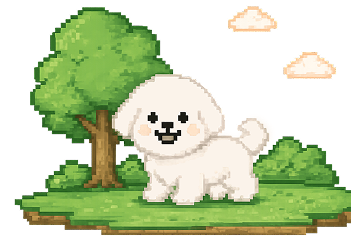
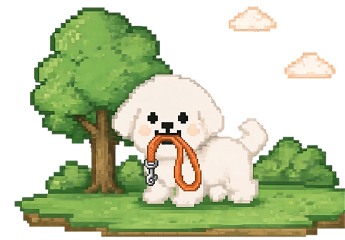
아이템 3종 추가·가격 책정, 배경 이음매 제거, 흰색 털, 산책 일러스트 교체
아이템
- 밀짚모자(300)·핑크리본(150)·동글안경(300) 추가. 초록 스카프는 새 디자인으로
  그림 교체. 그림이 없는 선글라스·후드티·천사날개·장난감류는 넣지 않았다 —
  회색 "준비중" 칸으로 채우면 비어 보이는 것보다 나빠 보인다.
- 전 아이템 가격 책정(기본 500 → 개별): 액자150 화분250 우드테이블500
  스탠드조명700 / 리본150 밀짚모자300 동글안경300 하트안경400 스카프600 왕관1200.
- 새 착용 아이템의 앵커·크기를 dog_with_wearables 에 추가했다. 없으면 강아지
  한가운데에 찍힌다. 크기는 그림의 알파 영역 가로:세로 비를 따랐다.
- 모자·리본은 머리 슬롯이라 kHeadSlotItems 에 넣어 하나만 쓰게 했다.

배경 이음매
- 같은 그림을 이어 붙이면 오른쪽 끝과 왼쪽 끝이 안 맞아 세로 경계선이 보였다.
  한 칸 걸러 좌우로 뒤집으면 맞닿는 가장자리가 같은 픽셀이라 선이 사라진다.
  대신 한 바퀴가 두 배가 되므로 주기와 타일 수를 그에 맞춰 늘렸다(칸당 속도는
  그대로). 8.15초 게임과 산책 화면 양쪽에 적용.

그 외
- 털색에 순백(0xFFFFFFFF) 추가. 곱셈 합성이라 이 값만 원본 그림을 그대로
  남긴다(기존 '화이트'는 5%쯤 어두운 아이보리).
- 산책 배너 일러스트를 목줄 문 강아지 그림으로 교체.

diff --git a/lib/features/games/presentation/widgets/looping_scenery.dart b/lib/features/games/presentation/widgets/looping_scenery.dart
@@ -2,7 +2,12 @@ import 'package:flutter/material.dart';
 
 /// 여러 배경을 가로로 이어 붙여 흘려보내는 스크롤 배경(끝나면 처음으로 이음).
 ///
-/// 8.15초 게임에서 배경 16장을 순서대로 이어 달리는 느낌을 준다.
+/// 8.15초 게임에서 달리는 느낌을 준다.
+///
+/// **한 칸 걸러 좌우로 뒤집어 붙인다(짝수=원본, 홀수=미러).** 같은 그림을
+/// 그냥 이어 붙이면 오른쪽 끝과 왼쪽 끝이 안 맞아 이음매에 세로 경계선이
+/// 보인다. 뒤집으면 맞닿는 두 가장자리가 같은 픽셀이라 선이 사라진다.
+/// 그래서 한 바퀴 길이가 그림 장수가 아니라 [_periodTiles] 칸이 된다.
 class LoopingScenery extends StatefulWidget {
   const LoopingScenery({
     super.key,
@@ -29,6 +34,15 @@ class _LoopingSceneryState extends State<LoopingScenery>
   // 그림 한 장이 지나가는 기준 시간(배속 1.0).
   static const _perTile = Duration(seconds: 7);
 
+  /// 한 바퀴에 들어가는 칸 수.
+  ///
+  /// 칸마다 원본·미러가 번갈아 나오므로, 장수가 홀수면 두 바퀴를 돌아야
+  /// 원래 배치로 돌아온다(예: 1장 → 원본·미러 2칸이 한 바퀴).
+  int get _periodTiles {
+    final n = widget.images.length;
+    return n.isEven ? n : n * 2;
+  }
+
   late final AnimationController _c = AnimationController(vsync: this);
 
   @override
@@ -48,8 +62,9 @@ class _LoopingSceneryState extends State<LoopingScenery>
       _c.stop(); // 멈춘 위치(_c.value) 유지 → 다시 시작하면 그 배경에서 이어짐.
       return;
     }
-    // 전체 한 바퀴(모든 그림) 시간 = 장수 × 기준시간 ÷ 배속.
-    _c.duration = _perTile * (widget.images.length / widget.speed);
+    // 전체 한 바퀴 시간 = 한 바퀴 칸수 × 기준시간 ÷ 배속.
+    // (칸당 속도는 장수·미러 여부와 무관하게 일정하다.)
+    _c.duration = _perTile * (_periodTiles / widget.speed);
     // repeat()는 현재 위상(_c.value)에서 이어서 반복한다(처음으로 리셋 안 함).
     _c.repeat();
   }
@@ -70,34 +85,45 @@ class _LoopingSceneryState extends State<LoopingScenery>
           final h = box.maxHeight;
           final tileW = h * widget.aspect;
           if (tileW <= 0) return const SizedBox.shrink();
-          final loopW = imgs.length * tileW; // 한 바퀴 거리
+          final loopW = _periodTiles * tileW; // 한 바퀴 거리
           return AnimatedBuilder(
             animation: _c,
             builder: (context, child) => Transform.translate(
               offset: Offset(-_c.value * loopW, 0),
               child: child,
             ),
-            // 이미지들 + 이음매용으로 화면을 덮을 만큼 앞쪽 몇 장을 더 붙인다.
+            // 한 바퀴 + 이음매용으로 화면을 덮을 만큼 앞쪽 몇 칸을 더 붙인다.
             child: OverflowBox(
               maxWidth: double.infinity,
               alignment: Alignment.centerLeft,
               child: Row(
                 mainAxisSize: MainAxisSize.min,
                 children: [
-                  for (int i = 0; i < imgs.length + 3; i++)
-                    Image.asset(
-                      imgs[i % imgs.length],
-                      width: tileW,
-                      height: h,
-                      fit: BoxFit.fill,
-                      filterQuality: FilterQuality.none,
-                    ),
+                  for (int i = 0; i < _periodTiles + 3; i++)
+                    _tile(imgs[i % imgs.length], tileW, h, mirrored: i.isOdd),
                 ],
               ),
             ),
           );
         },
       ),
+    );
+  }
+
+  /// 한 칸. [mirrored]면 좌우로 뒤집어 이음매를 없앤다.
+  Widget _tile(String asset, double w, double h, {required bool mirrored}) {
+    final img = Image.asset(
+      asset,
+      width: w,
+      height: h,
+      fit: BoxFit.fill,
+      filterQuality: FilterQuality.none,
+    );
+    if (!mirrored) return img;
+    return Transform(
+      alignment: Alignment.center,
+      transform: Matrix4.identity()..scaleByDouble(-1.0, 1.0, 1.0, 1.0),
+      child: img,
     );
   }
 }

diff --git a/lib/features/home/domain/room_item.dart b/lib/features/home/domain/room_item.dart
@@ -26,22 +26,20 @@ class RoomItem {
   final int price; // 스토어 가격(P)
 }
 
-/// 아이템 카탈로그 (image 13 기준). 픽셀 에셋은 `assets/items/{id}.png`.
+/// 아이템 카탈로그. 픽셀 에셋은 `assets/items/{id}.png`.
+///
+/// **그림이 있는 것만 넣는다.** 선글라스·후드티·천사날개, 장난감(테니스공·로프
+/// 등)처럼 가격만 정해둔 아이템은 그림이 들어오면 그때 추가한다. 회색
+/// "준비중" 칸으로 미리 채우면 스토어가 비어 보이는 것보다 더 나빠 보인다.
 const List<RoomItem> kRoomItems = [
-  // 가구
+  // ── 인테리어 ──
   RoomItem(
-    id: 'wood_table',
-    label: '우드테이블',
+    id: 'frame',
+    label: '액자',
     category: ItemCategory.furniture,
-    icon: Icons.table_restaurant,
-    asset: 'assets/items/wood_table.png',
-  ),
-  RoomItem(
-    id: 'stand_lamp',
-    label: '스탠드 조명',
-    category: ItemCategory.furniture,
-    icon: Icons.light,
-    asset: 'assets/items/stand_lamp.png',
+    icon: Icons.photo,
+    asset: 'assets/items/frame.png',
+    price: 150,
   ),
   RoomItem(
     id: 'plant',
@@ -49,28 +47,32 @@ const List<RoomItem> kRoomItems = [
     category: ItemCategory.furniture,
     icon: Icons.local_florist,
     asset: 'assets/items/plant.png',
+    price: 250,
   ),
   RoomItem(
-    id: 'frame',
-    label: '액자',
+    id: 'wood_table',
+    label: '우드테이블',
     category: ItemCategory.furniture,
-    icon: Icons.photo,
-    asset: 'assets/items/frame.png',
-  ),
-  // 웨어러블
-  RoomItem(
-    id: 'heart_glasses',
-    label: '하트안경',
-    category: ItemCategory.wearable,
-    icon: Icons.favorite,
-    asset: 'assets/items/heart_glasses.png',
+    icon: Icons.table_restaurant,
+    asset: 'assets/items/wood_table.png',
+    price: 500,
   ),
   RoomItem(
-    id: 'crown',
-    label: '왕관모자',
+    id: 'stand_lamp',
+    label: '스탠드 조명',
+    category: ItemCategory.furniture,
+    icon: Icons.light,
+    asset: 'assets/items/stand_lamp.png',
+    price: 700,
+  ),
+  // ── 착용 아이템 (가격 낮은 순) ──
+  RoomItem(
+    id: 'pink_ribbon',
+    label: '핑크리본',
     category: ItemCategory.wearable,
-    icon: Icons.workspace_premium,
-    asset: 'assets/items/crown.png',
+    icon: Icons.bookmark,
+    asset: 'assets/items/pink_ribbon.png',
+    price: 150,
   ),
   RoomItem(
     id: 'sky_ribbon',
@@ -79,6 +81,31 @@ const List<RoomItem> kRoomItems = [
     icon: Icons.bookmark,
     enabled: false,
     asset: 'assets/items/sky_ribbon.png',
+    price: 150,
+  ),
+  RoomItem(
+    id: 'straw_hat',
+    label: '밀짚모자',
+    category: ItemCategory.wearable,
+    icon: Icons.beach_access,
+    asset: 'assets/items/straw_hat.png',
+    price: 300,
+  ),
+  RoomItem(
+    id: 'round_glasses',
+    label: '동글안경',
+    category: ItemCategory.wearable,
+    icon: Icons.circle_outlined,
+    asset: 'assets/items/round_glasses.png',
+    price: 300,
+  ),
+  RoomItem(
+    id: 'heart_glasses',
+    label: '하트안경',
+    category: ItemCategory.wearable,
+    icon: Icons.favorite,
+    asset: 'assets/items/heart_glasses.png',
+    price: 400,
   ),
   RoomItem(
     id: 'green_scarf',
@@ -86,9 +113,23 @@ const List<RoomItem> kRoomItems = [
     category: ItemCategory.wearable,
     icon: Icons.dry_cleaning,
     asset: 'assets/items/green_scarf.png',
+    price: 600,
+  ),
+  RoomItem(
+    id: 'crown',
+    label: '왕관모자',
+    category: ItemCategory.wearable,
+    icon: Icons.workspace_premium,
+    asset: 'assets/items/crown.png',
+    price: 1200,
   ),
 ];
 
 /// 머리에 쓰는 웨어러블 — 이 중 하나만 착용할 수 있다.
 /// 홈(실제 착용)과 스토어(입어보기)가 같은 규칙을 쓰도록 여기서 한 번만 정의한다.
-const Set<String> kHeadSlotItems = {'crown', 'sky_ribbon'};
+const Set<String> kHeadSlotItems = {
+  'crown',
+  'sky_ribbon',
+  'pink_ribbon',
+  'straw_hat',
+};

diff --git a/lib/features/walk/presentation/widgets/walk_scenery.dart b/lib/features/walk/presentation/widgets/walk_scenery.dart
@@ -2,6 +2,11 @@ import 'package:flutter/material.dart';
 
 /// 산책 중 배경. 같은 그림을 가로로 이어 붙여 흘려보내 "걷고 있음"을 표현한다.
 ///
+/// **한 칸 걸러 좌우로 뒤집는다(짝수=원본, 홀수=미러).** 같은 그림을 그냥
+/// 이어 붙이면 오른쪽 끝과 왼쪽 끝이 안 맞아 이음매에 세로 경계선이 보인다.
+/// 뒤집으면 맞닿는 두 가장자리가 같은 픽셀이라 선이 사라진다. 대신 한 바퀴가
+/// 한 칸이 아니라 **두 칸**이 된다.
+///
 /// 배경은 [WalkBackground]로 갈아끼운다. 지역마다 다른 그림을 쓰거나, 나중에
 /// AI 생성 이미지를 쓰게 되면 [WalkBackground.image]에 `NetworkImage`를 넣으면
 /// 되고 레이아웃은 그대로다.
@@ -94,7 +99,8 @@ class _WalkSceneryState extends State<WalkScenery>
       _c.stop();
       return;
     }
-    _c.duration = _baseDuration * (1 / widget.speed);
+    // 한 바퀴가 두 칸(원본+미러)이므로 주기도 두 배. 칸당 속도는 그대로다.
+    _c.duration = _baseDuration * (2 / widget.speed);
     // 진행 위상(_c.value)은 유지되므로 배속을 바꿔도 배경이 튀지 않는다.
     _c.repeat();
   }
@@ -114,14 +120,15 @@ class _WalkSceneryState extends State<WalkScenery>
           // 그림은 높이에 맞춰 세우고, 그만큼의 폭으로 가로로 이어 붙인다.
           final tileW = h * widget.background.aspect;
           if (tileW <= 0) return const SizedBox.shrink();
-          // 화면을 덮고 + 한 장이 더 있어야 스크롤이 끊기지 않는다(최소 3장).
-          final count = ((box.maxWidth / tileW).ceil() + 1).clamp(3, 8);
+          // 화면을 덮고 + 한 바퀴(두 칸)가 더 있어야 스크롤이 끊기지 않는다.
+          final count = ((box.maxWidth / tileW).ceil() + 2).clamp(4, 10);
 
           return AnimatedBuilder(
             animation: _c,
             builder: (context, child) => Transform.translate(
-              // 0 → -tileW 로 밀고 다시 0으로 돌아오므로 이음매가 안 보인다.
-              offset: Offset(-_c.value * tileW, 0),
+              // 0 → -(tileW*2) 로 밀고 다시 0으로 돌아온다. 두 칸이 한 바퀴라
+              // 되감아도 원본·미러 배치가 그대로 이어진다.
+              offset: Offset(-_c.value * tileW * 2, 0),
               child: child,
             ),
             // 이어붙인 타일이 화면보다 넓다. OverflowBox로 Row에 무한 폭을 줘야
@@ -133,20 +140,31 @@ class _WalkSceneryState extends State<WalkScenery>
                 mainAxisSize: MainAxisSize.min,
                 children: [
                   for (int i = 0; i < count; i++)
-                    Image(
-                      image: widget.background.image,
-                      width: tileW,
-                      height: h,
-                      // fill: 계산한 타일 폭에 정확히 맞춰야 장끼리 틈이 안 생긴다.
-                      fit: BoxFit.fill,
-                      filterQuality: FilterQuality.none, // 픽셀 선명도 유지
-                    ),
+                    _tile(tileW, h, mirrored: i.isOdd),
                 ],
               ),
             ),
           );
         },
       ),
+    );
+  }
+
+  /// 한 칸. [mirrored]면 좌우로 뒤집어 이음매를 없앤다.
+  Widget _tile(double w, double h, {required bool mirrored}) {
+    final img = Image(
+      image: widget.background.image,
+      width: w,
+      height: h,
+      // fill: 계산한 타일 폭에 정확히 맞춰야 장끼리 틈이 안 생긴다.
+      fit: BoxFit.fill,
+      filterQuality: FilterQuality.none, // 픽셀 선명도 유지
+    );
+    if (!mirrored) return img;
+    return Transform(
+      alignment: Alignment.center,
+      transform: Matrix4.identity()..scaleByDouble(-1.0, 1.0, 1.0, 1.0),
+      child: img,
     );
   }
 }

diff --git a/lib/features/pet/presentation/widgets/dog_with_wearables.dart b/lib/features/pet/presentation/widgets/dog_with_wearables.dart
@@ -136,8 +136,11 @@ class _DogWithWearablesState extends State<DogWithWearables>
   // 박스 안에서 조금 작아지고 아래로 내려갔다. 그만큼 앵커도 같이 옮겼다.
   static const Map<String, Offset> _wearAnchor = {
     'crown': Offset(15, -47), // 머리 위 중앙
+    'straw_hat': Offset(15, -44), // 챙이 넓어 왕관보다 살짝 아래
     'heart_glasses': Offset(15, -15), // 눈 위치
+    'round_glasses': Offset(15, -15), // 하트안경과 같은 눈 위치
     'sky_ribbon': Offset(25, -41), // 머리 위, 왕관보다 약간 오른쪽
+    'pink_ribbon': Offset(25, -41), // 하늘색 리본과 같은 자리
     // 턱 바로 아래 목. 가슴까지 내리면 스카프가 아니라 앞치마처럼 보인다.
     'green_scarf': Offset(17, 17),
   };
@@ -146,17 +149,23 @@ class _DogWithWearablesState extends State<DogWithWearables>
   // 값이 안 맞으면 이 숫자만 조정하면 된다.
   static const Map<String, Offset> _wearAnchorWalk = {
     'crown': Offset(13, -50),
+    'straw_hat': Offset(13, -47),
     'heart_glasses': Offset(14, -22), // 눈에 딱 맞게
+    'round_glasses': Offset(14, -22),
     'sky_ribbon': Offset(25, -44),
+    'pink_ribbon': Offset(25, -44),
     'green_scarf': Offset(10, 14),
   };
 
-  // 원본 비율 유지한 표시 크기.
+  // 원본 비율 유지한 표시 크기(그림의 알파 영역 가로:세로 비를 따른다).
   static const Map<String, Size> _wearSize = {
     'crown': Size(50, 46),
+    'straw_hat': Size(56, 35), // 136x85
     'heart_glasses': Size(54, 27),
+    'round_glasses': Size(54, 21), // 117x45
     'sky_ribbon': Size(42, 27),
-    // 새 반다나 픽셀(20x12 그리드) 비율에 맞춘 크기.
-    'green_scarf': Size(52, 31),
+    'pink_ribbon': Size(44, 30), // 99x67
+    // 새 반다나 픽셀 비율에 맞춘 크기(113x70).
+    'green_scarf': Size(52, 32),
   };
 }

diff --git a/lib/core/theme/pixel_theme.dart b/lib/core/theme/pixel_theme.dart
@@ -52,6 +52,9 @@ class AppColors {
     Color(0xFF8E8880), // 그레이
     Color(0xFF9BA3A8), // 애쉬블루
     Color(0xFF6E6963), // 차콜
+    // 순백. 털색은 곱셈 합성이라 이 값만 원본 그림을 그대로 남긴다
+    // (기존 '화이트' 0xFFF2F0EB 는 5%쯤 어두워져 아이보리에 가깝다).
+    Color(0xFFFFFFFF), // 흰색
   ];
 }
 
